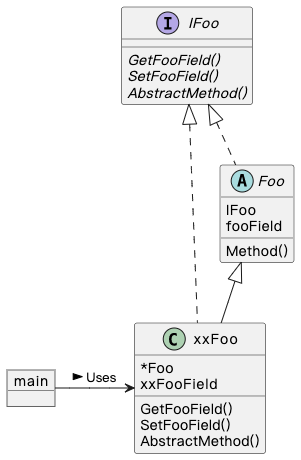
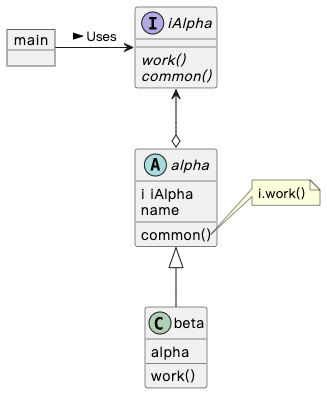
update tutorial

Changed region(s): [[0.0, 0.0, 0.9867, 1.0], [0.0, 0.0609, 0.1794, 0.1827]]

diff --git a/tutorial/tutorial.md b/tutorial/tutorial.md
@@ -1,33 +1,81 @@
 ## Tutorial
 
-Golang 通过结构体（Foo）匿名组合（IFoo）接口来实现抽象类，由于接口中不能包含字段，所以只能通过 Get()、Set() 方法（GetFooField()、SetFooField()）来操作抽象类中的字段。
+### 代码
 
-抽象类（Foo）声明的抽象方法（AbstractMethod()），具体由子类（xxFoo）实现。
+Golang 通过结构体（abstract concrete type）组合接口（abstract interface）来实现抽象类，具体代码如下：
 
-具体使用参考[示例代码](./main.go)，下面是代码类图。
+```go
+package main
 
-#### 类图
+import "fmt"
+
+// Abstract Interface
+type iAlpha interface {
+	work()
+	common()
+}
+
+// Abstract Concrete Type
+type alpha struct {
+	i    iAlpha
+	name string
+}
+
+func (a *alpha) common() {
+	fmt.Println("common called")
+	a.i.work()
+}
+
+// Implementing Type
+type beta struct {
+	alpha
+}
+
+func newBeta(name string) iAlpha {
+	b := new(beta)
+	b.name = name
+	// i 为 iAlpha，接口赋值指向具体子类对象，来调用子类实现的方法
+	b.i = b
+	return b
+}
+
+func (b *beta) work() {
+	fmt.Println("work called")
+	fmt.Printf("Name is %s\n", b.name)
+}
+
+func main() {
+	b := newBeta("test")
+	b.common()
+}
+
+```
+
+输出：
+
+```go
+common called
+work called
+Name is test
+```
+
+结构体 alpha 中所有未定义的方法，都会调用其接口类型参数 iAlpha 中的默认方法。
+
+### 类图
 
 类图用于表示类、接口、实例等之间的静态关系。
 
 ![class](./class.png)
 
-#### 注意
+### 注意
 
-1. 初始化：当我们调用 XxFoo.Method() 这种 XxFoo 没有直接定义，而是嵌入的方法时，实际调用的是 Foo.Method()，并且 Foo.Method() 中调用的 AbstractMethod() 也是 Foo 的。所以我们需要通过初始化赋值，将 Foo.AbstractMethod() 调用路由回 XxFoo.AbstractMethod()。
+1. 本 repo 中的 UML 都是使用 [PlantUML](https://plantuml.com/) 编写的，示例 [类图](./class.puml)。
 
-   ```go
-   func NewXxFoo() *XxFoo {
-   	xxFoo := &XxFoo{Foo: &Foo{}}
-   	xxFoo.Foo.IFoo = xxFoo // there
-   	return xxFoo
-   }
-   ```
+2. 聚合和组合的区别：聚合体现 has a 关系，组合体现 contains a 关系。
 
-2. 本 repo 中的 UML 都是使用 [PlantUML](https://plantuml.com/) 编写的，示例 [类图](./class.puml)。
+### 感谢
 
-3. 聚合和组合的区别：聚合体现 has a 关系，组合体现 contains a 关系。
-
-#### 感谢
+- [Abstract Class in GO: Complete Guide](https://golangbyexample.com/go-abstract-class/)
 
 - [Abstract Class reinvented](https://adrianwit.medium.com/abstract-class-reinvented-with-go-4a7326525034)
+- [模板方法模式](https://www.yuque.com/aceld/lfhu8y/pwepxk)
